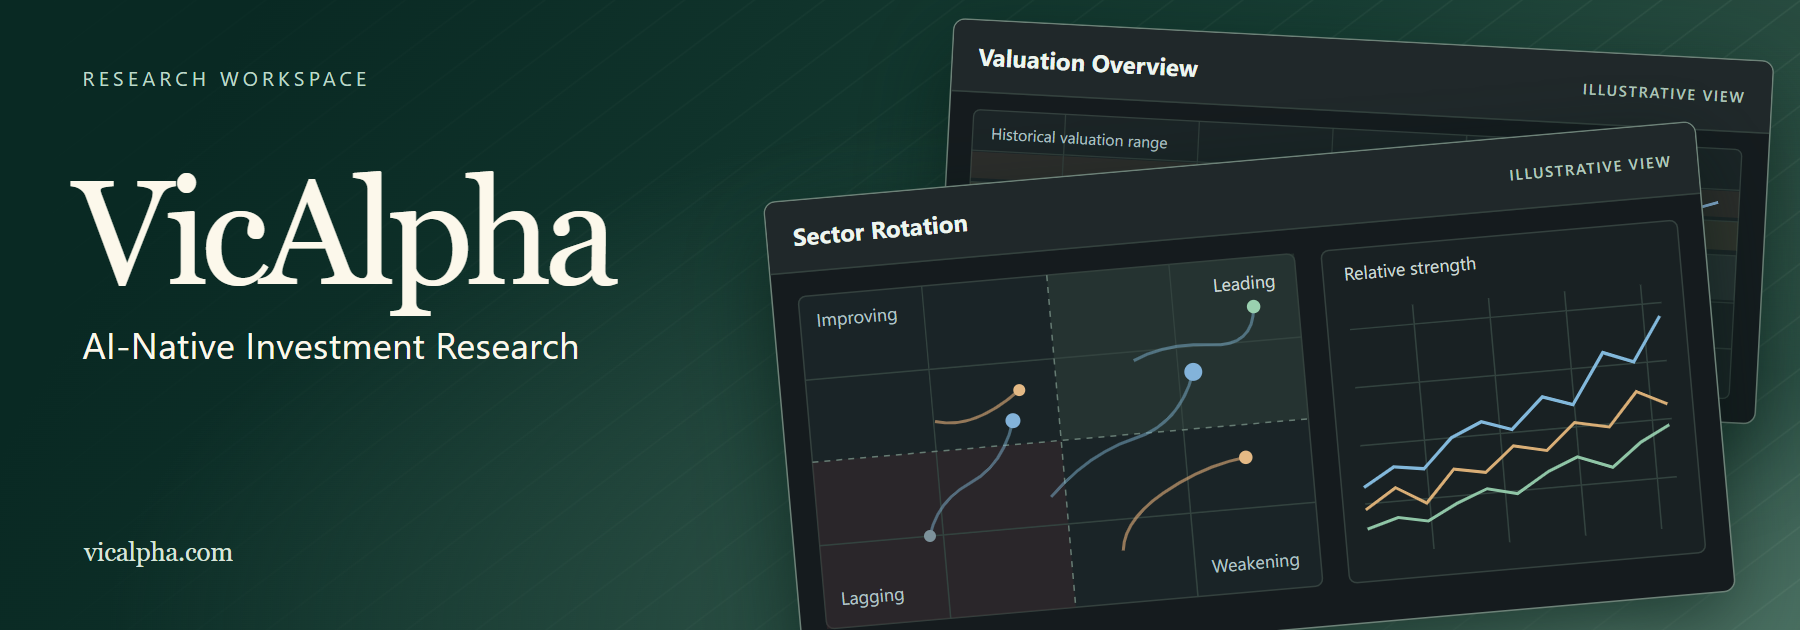
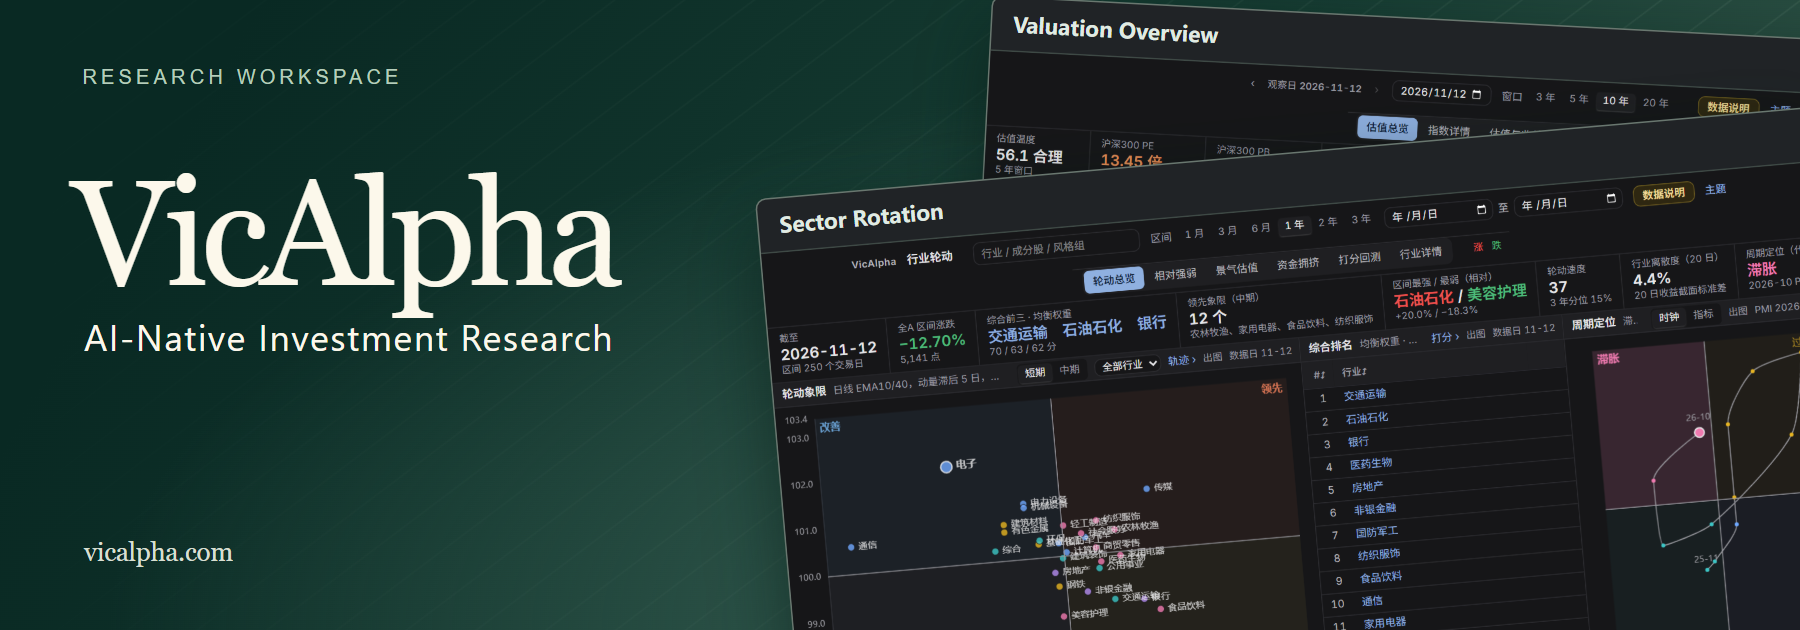
Restore original product screenshots on the English cover

diff --git a/index.html b/index.html
@@ -1,6 +1,6 @@
 <!doctype html><html lang="en"><meta charset="utf-8"><meta name="viewport" content="width=device-width,initial-scale=1"><title>VicAlpha · Investment Research</title><style>
 *{box-sizing:border-box}body{margin:0;background:#f6f6ef;color:#163631;font:17px/1.75 system-ui,sans-serif}main,header,footer{width:min(1080px,90%);margin:auto}header,footer{display:flex;align-items:center;justify-content:space-between;padding:20px 0}a{color:#185344;text-underline-offset:5px}a:focus-visible,summary:focus-visible{outline:3px solid #ba640a;outline-offset:4px}header strong{font: bold 24px Georgia,serif}.cover{width:100%;display:block;border-radius:5px}.intro{padding:42px 0 32px;max-width:780px}h1,h2{line-height:1.25;letter-spacing:-.04em}h1{font-size:clamp(31px,5vw,59px);margin:0}p{margin:16px 0}.cta{display:inline-block;background:#13483e;color:white;padding:10px 21px;border-radius:4px;text-decoration:none;margin:8px 18px 0 0}.grid{display:grid;grid-template-columns:1fr 1fr;gap:0 44px}article,details,footer{border-top:1px solid #b6c7bb}article{padding:16px 0}article h3{margin:0;font-size:21px}article p{color:#425a51;margin:8px 0}section{margin-bottom:40px}summary{cursor:pointer;padding:12px 0;font-weight:650}details p{margin:0 0 20px}footer{font-size:15px}@media(max-width:650px){.grid{grid-template-columns:1fr}.intro{padding-top:26px}header,footer{padding:14px 0}}
-figure{margin:24px 0 36px}figure img{display:block;width:100%;height:auto;border:1px solid #c9d3cc;border-radius:6px}figcaption{margin:10px 0;color:#425a51}figure img{max-width:100%;width:auto;margin-inline:auto}figure a:has(img){display:block;padding:clamp(8px,2vw,24px);background:#e9eee7;border-radius:8px}figure h3{margin-bottom:10px}table{width:100%;border-collapse:collapse;font-size:15px}th,td{text-align:left;vertical-align:top;padding:10px 8px;border-bottom:1px solid #c6d3ca}th:first-child{width:21%}th:nth-child(2){width:32%}.desk-pair{display:grid;grid-template-columns:repeat(2,minmax(0,1fr));gap:16px;margin:16px 0 36px}.desk-pair figure{margin:0}.desk-pair img{display:block;width:100%;height:auto}.desk-pair figure a:has(img){padding:6px}h2{padding-top:20px;border-top:1px solid #a6bbb0}tbody tr:focus-within,tbody tr:hover{background:#e6ede6}@media(max-width:620px){.desk-pair{grid-template-columns:1fr}}@media(prefers-reduced-motion:no-preference){tbody tr{transition:background-color .18s}.arrived{animation:appear .28s ease-out}@keyframes appear{from{opacity:.75;transform:translateY(4px)}to{opacity:1;transform:none}}}main{max-width:1040px;padding:22px 0 50px}main img{display:block;max-width:100%;height:auto}main>p>a>img{width:100%}main>p:first-child{text-align:center}h2{margin-top:48px}h3{margin-top:30px}blockquote{margin:16px 0;padding:10px 18px;border-left:3px solid #4e806b;background:#eaf0e7}.table-wrap{max-width:100%;overflow:auto;margin:14px 0}.table-wrap img{min-width:96px}th,td{font-size:15px}.table-wrap td[width]{width:50%;vertical-align:top}h1{font-size:clamp(30px,5vw,54px)}main>p:last-child{margin-top:36px}@media(max-width:640px){main{width:94%}th,td{font-size:14px}table{min-width:440px}table:has(td[width]){min-width:0}.table-wrap img{min-width:0}}</style><main><p><a href="https://vicalpha.com/"><img alt="VicAlpha AI-native investment research with illustrative valuation and sector rotation charts" src="images/desk-highlights-en.png" /></a></p>
+figure{margin:24px 0 36px}figure img{display:block;width:100%;height:auto;border:1px solid #c9d3cc;border-radius:6px}figcaption{margin:10px 0;color:#425a51}figure img{max-width:100%;width:auto;margin-inline:auto}figure a:has(img){display:block;padding:clamp(8px,2vw,24px);background:#e9eee7;border-radius:8px}figure h3{margin-bottom:10px}table{width:100%;border-collapse:collapse;font-size:15px}th,td{text-align:left;vertical-align:top;padding:10px 8px;border-bottom:1px solid #c6d3ca}th:first-child{width:21%}th:nth-child(2){width:32%}.desk-pair{display:grid;grid-template-columns:repeat(2,minmax(0,1fr));gap:16px;margin:16px 0 36px}.desk-pair figure{margin:0}.desk-pair img{display:block;width:100%;height:auto}.desk-pair figure a:has(img){padding:6px}h2{padding-top:20px;border-top:1px solid #a6bbb0}tbody tr:focus-within,tbody tr:hover{background:#e6ede6}@media(max-width:620px){.desk-pair{grid-template-columns:1fr}}@media(prefers-reduced-motion:no-preference){tbody tr{transition:background-color .18s}.arrived{animation:appear .28s ease-out}@keyframes appear{from{opacity:.75;transform:translateY(4px)}to{opacity:1;transform:none}}}main{max-width:1040px;padding:22px 0 50px}main img{display:block;max-width:100%;height:auto}main>p>a>img{width:100%}main>p:first-child{text-align:center}h2{margin-top:48px}h3{margin-top:30px}blockquote{margin:16px 0;padding:10px 18px;border-left:3px solid #4e806b;background:#eaf0e7}.table-wrap{max-width:100%;overflow:auto;margin:14px 0}.table-wrap img{min-width:96px}th,td{font-size:15px}.table-wrap td[width]{width:50%;vertical-align:top}h1{font-size:clamp(30px,5vw,54px)}main>p:last-child{margin-top:36px}@media(max-width:640px){main{width:94%}th,td{font-size:14px}table{min-width:440px}table:has(td[width]){min-width:0}.table-wrap img{min-width:0}}</style><main><p><a href="https://vicalpha.com/"><img alt="VicAlpha AI-native investment research with dark-mode valuation and sector rotation dashboards" src="images/desk-highlights-en.png" /></a></p>
 <h1 align="center">VicAlpha · AI-Native Investment Research</h1>
 
 <p align="center"><b>A research workspace designed for institutional investment workflows</b></p>

diff --git a/README.md b/README.md
@@ -1,4 +1,4 @@
-[![VicAlpha AI-native investment research with illustrative valuation and sector rotation charts](images/desk-highlights-en.png)](https://vicalpha.com/)
+[![VicAlpha AI-native investment research with dark-mode valuation and sector rotation dashboards](images/desk-highlights-en.png)](https://vicalpha.com/)
 
 <h1 align="center">VicAlpha · AI-Native Investment Research</h1>
 
